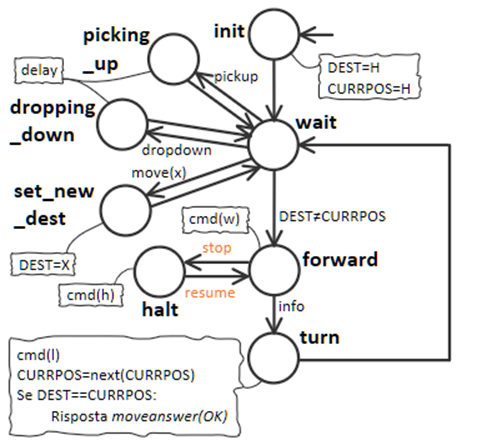
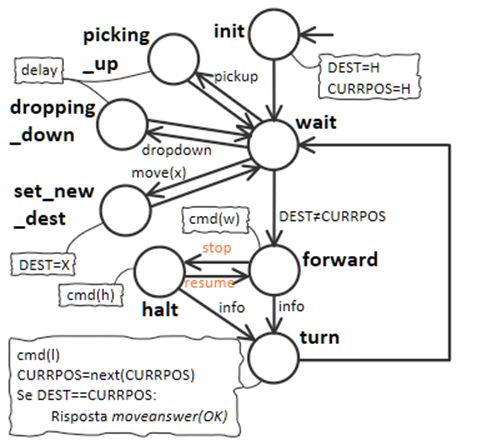
minor documentation improvements & corrections

Changed region(s): [[0.3659, 0.6135, 0.5183, 0.7888]]

diff --git a/sprint2/sprint2.html b/sprint2/sprint2.html
@@ -123,7 +123,7 @@ dd{ margin-bottom: 8px;}
                     subscribeLocalActor(sonarActorName)</pre>
             </code>
             <p>In particolare l'attore <i>distancefilter</i> si occupa di filtrare gli eventi e inviare al prossimo attore solo eventi di tipo obstacle:obstacle($distance) solo nel caso in cui la distanza rilevata sia minore di una distanza prefissata.</p>
-            <img src="../docs_prof/html/_images/sonarpipenano.png" class="centerimg" style="width: 800px;"/>
+            <img src="../docs_prof/html/_images/sonarpipenano.png" class="centerimg" style="max-width: 800px;"/>
         </dd>
         <dt><b>DLIMT:</b></dt>
         <dd>Misura in CM della distanza limite. Se la distanza attualmente misurata dal <b>Sonar concreto</b> è ≤ DLIMT, il robot deve essere nello stato stopped. Qunando la distanza misurata &gt DLIMIT il robot può muoversi<br>
@@ -138,26 +138,27 @@ dd{ margin-bottom: 8px;}
     <dt><a href="../sprint1/sprint1.html#ProblemAnalysis">Link alla problem analysis dello SPRINT1</a></dt>
     <br><br>
 
-    <h3><b>Interazione di robot - sonar</b></h3>
+    <h3><b>Interazione robot - sonar</b></h3>
 
     <p>Sono state analizzate diverse possibilità per integrare in maniera coerente la possibilità di fermare e far riprendere le attività che il robot deve svolgere. <br>
-        A tal fine supponiamo di ricevere già eventi del tipo <i>stop</i> e <i>resume></i> (che sarà generato da qualche attore a sua volta collegato al sonar "di base")</p>
+        A tal fine supponiamo di ricevere già eventi del tipo <i>stop</i> e <i>resume</i> (che sarà generato da qualche attore a sua volta collegato al sonar "di base")</p>
 
     <h4>OPZIONE 1</h4>
-    <p>Il <b>Transport trolley</b> riceve direttamente gli eventi di stop e resume, inviando gli opportuni comandi di basso livello a <i>basicrobot</i>:</p>
-    <img src="../sprint2/docs/_images/transporttrolley_option1_logic_architecture.png" class="centerimg" style="width: 250px;"/>
+    <p><b>Transport trolley</b> riceve direttamente gli eventi <i>stop</i> e <i>resume</i>, inviando gli opportuni comandi di basso livello a <i>basicrobot</i>:</p>
+    <img src="../sprint2/docs/_images/transporttrolley_option1_logic_architecture.png" class="centerimg" style="max-width: 250px;"/>
     <ul>
         <li>- <b>Transport trolley</b> ha la responsabilità diretta di restare in ascolto di eventi riguardanti il sonar</li>
-        <li>- necessario aggiungere uno stato a <b>Transport trolley</b></li>
     </ul>
-    <p>La macchina a stati non risulta ancora eccessivamente complicata (rispetto a prima è stato aggiunto solo lo stato <i>halt</i>):</p>
-    <img src="../sprint2/docs/_images/transporttrolley_option1_state_machine.png" class="centerimg" style="width: 500px;"/>
+    <p>La macchina a stati dell'attore <i>transporttrolley</i> non risulta ancora eccessivamente complicata (rispetto a prima è stato aggiunto solo lo stato <i>halt</i>):</p>
+    <img src="../sprint2/docs/_images/transporttrolley_option1_state_machine.png" class="centerimg" style="max-width: 500px;"/>
+    <p style="font-size: 0.8rem;">N.B: per maggior robustezza è stata inserita la transizione da halt a turn nell'eventualità che il robot riesca comunque a raggiungere il muro subito 
+        dopo aver impartito il comando di halt (dovuto a inerzia del robot, ritardo nell'arrivo dell'evento <i>info</i>, ecc..).</p>
     
     <h4>OPZIONE 2 e 3</h4>
-    <p>Le due soluzioni sono simili, in quanto prevedono entrambe l'utilizzo di un attore intermedio (<i>intermediario</i>) il cui compito è quello di ricevere i comandi emessi dal <b>Transport trolley</b>, 
-        e di mandarli al sottostante <i>basicrobot</i> compatibilmente con i comandi di <i>stop</i> e <i>resume</i>. Più nello specifico, dovrà fermare il robot quando viene ricevuto il 
-        comando di <i>stop</i>, metnre se viene ricevuto <i>resume</i> il robot verrà fatto ripartire solo se era precedentemente in movimento.</p>
-        <img src="../sprint2/docs/_images/transporttrolley_option3_logic_architecture.png" class="centerimg" style="width: 300px;"/>
+    <p>Le opzioni 2 e 3 sono simili, in quanto prevedono entrambe l'utilizzo di un attore intermedio (qui chiamato <i>intermediario</i>) il cui compito è quello di ricevere i comandi inviati 
+        da <i>transporttrolley</i>, e di mandarli al sottostante <i>basicrobot</i> compatibilmente con i comandi di <i>stop</i> e <i>resume</i>. Più nello specifico, dovrà fermare il robot quando 
+        viene ricevuto il comando di <i>stop</i>, metnre se viene ricevuto <i>resume</i> il robot verrà fatto ripartire solo se era precedentemente in movimento.</p>
+        <img src="../sprint2/docs/_images/transporttrolley_option3_logic_architecture.png" class="centerimg" style="max-width: 300px;"/>
         <ul>
             <li>+ principio di singola resposabilità: Il transporttrolley traduce le destinazioni da raggiungere in comandi di basso livello, senza preoccuparsi di rimanere in ascolto di eventi dal sonar</li>
         </ul>
@@ -169,8 +170,6 @@ dd{ margin-bottom: 8px;}
                     <ul>
                         <li>- richiede di modificare il transport trolley</li>
                     </ul>
-                    <p style="font-size: 0.8rem;">N.B: per maggior robustezza è stata inserita la transizione da halt a collision nell'eventualità che il robot riesca comunque a raggiungere il muro subito 
-                        dopo aver impartito il comando di halt (dovuto a inerzia del robot, ritardo nell'arrivo dell'evento <i>info</i>, ecc..).</p>
                 </td>
                 <td style="width:25%; min-width: 310px;"><img src="../sprint2/docs/_images/transporttrolley_option2_state_machine.png" class="centerimg" style="width: 300px;"/></td>
             </tr>
@@ -183,7 +182,7 @@ dd{ margin-bottom: 8px;}
                         <li>+ Richiede solo di modificare il destinatario dei messaggi del transporttrolley.</li>
                     </ul>
                 </td>
-                <td style="width:25%; min-width: 310px;"><img src="../sprint2/docs/_images/transporttrolley_option3_state_machine.png" class="centerimg" style="width: 300px;"/></td>
+                <td style="width:25%; min-width: 310px;"><img src="../sprint2/docs/_images/transporttrolley_option3_state_machine.png" class="centerimg" style="max-width: 300px;"/></td>
             </tr>
         </table>
         <p>Le opzioni 2 e 3 sono ottime se il robot si deve fermare solo mentre questo sta procedendo in avanti. <br>
@@ -200,8 +199,8 @@ dd{ margin-bottom: 8px;}
             Tali operazioni assumono un significato particolare nel caso in cui il robot si stia muovendo in avanti: in tal caso il robot viene fermato, mentre la riabilitazione provoca il ripristino 
             dell'avanzamento. Questo non accade per tutte le altre mosse, che vengono infatti portate sempre a termine (siccome più rapide), tuttavia subito dopo la loro esecuzione si aspetta il 
             messaggio di riabilitazione prima di eseguire altre mosse.</p>
-        <p>
-            L'invio di questi comandi è delegato ad un apposito controllore <i>alarmcontrol</i>, la cui responsabilità è proprio quella di controllare le azioni da svolgere nel caso in cui la distanza 
+        <img src="../sprint2/docs/_images/transporttrolley_option4_state_machine.png" class="centerimg" style="max-width: 700px;"/>
+        <p>L'invio di questi comandi è delegato ad un apposito controllore <i>alarmcontrol</i>, la cui responsabilità è proprio quella di controllare le azioni da svolgere nel caso in cui la distanza 
             rilevata dal sonar varchi la soglia DLIMIT. L'architettura logica diventa dunque la seguente:
         </p>
         <img src="../sprint2/docs/_images/transporttrolley_option4_logic_architecture.png" class="centerimg"/>
@@ -245,7 +244,7 @@ dd{ margin-bottom: 8px;}
         </ul>
     </p>
     <p>Il modello QAK dell'attore consiste semplicemente nei 2 stati di gesione dei due eventi, più quello iniziale di attesa:</p>
-    <img src="../sprint2/docs/_images/alarmcontrol_state_machine.png" class="centerimg" style="width: 400px;"/>
+    <img src="../sprint2/docs/_images/alarmcontrol_state_machine.png" class="centerimg" style="max-width: 400px;"/>
     <p class="todo">Momento ottimo per riportare il QAK di questo <i>alarmcontrol</i>.</p>
 </div>
     
